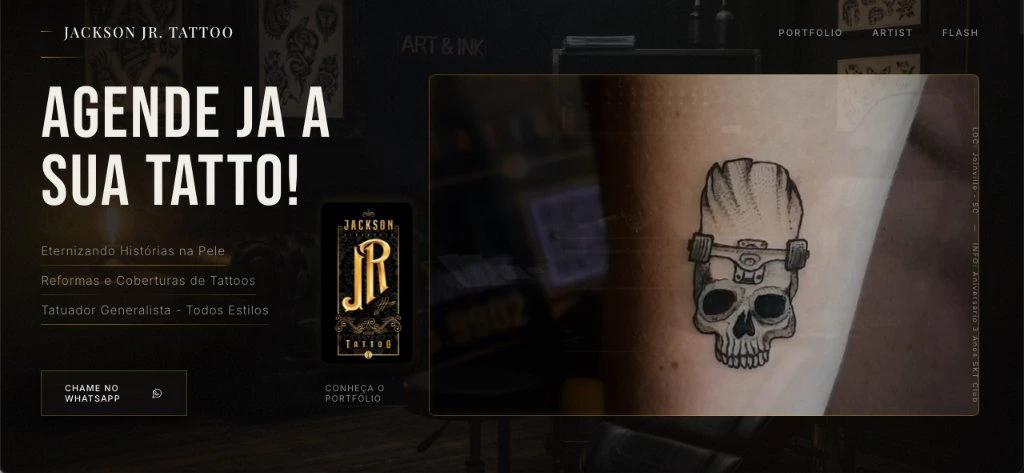
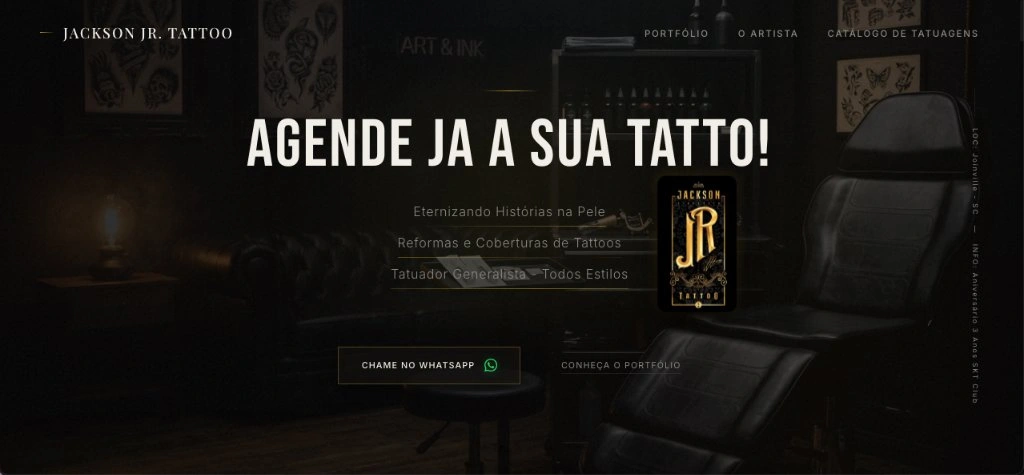
Atualizar imagem do card Tatuador no monitor dos projetos

diff --git a/index.html b/index.html
@@ -570,7 +570,7 @@
                     </div>
                     <div class="pmon">
                         <div class="pmon-tela">
-                            <img src="images/lp-tatuador.webp" alt="Site feito para tatuador" width="1024" height="473"
+                            <img src="images/lp-tatuador.webp?v=2" alt="Site feito para tatuador" width="1024" height="475"
                                 loading="lazy">
                         </div>
                     </div>
